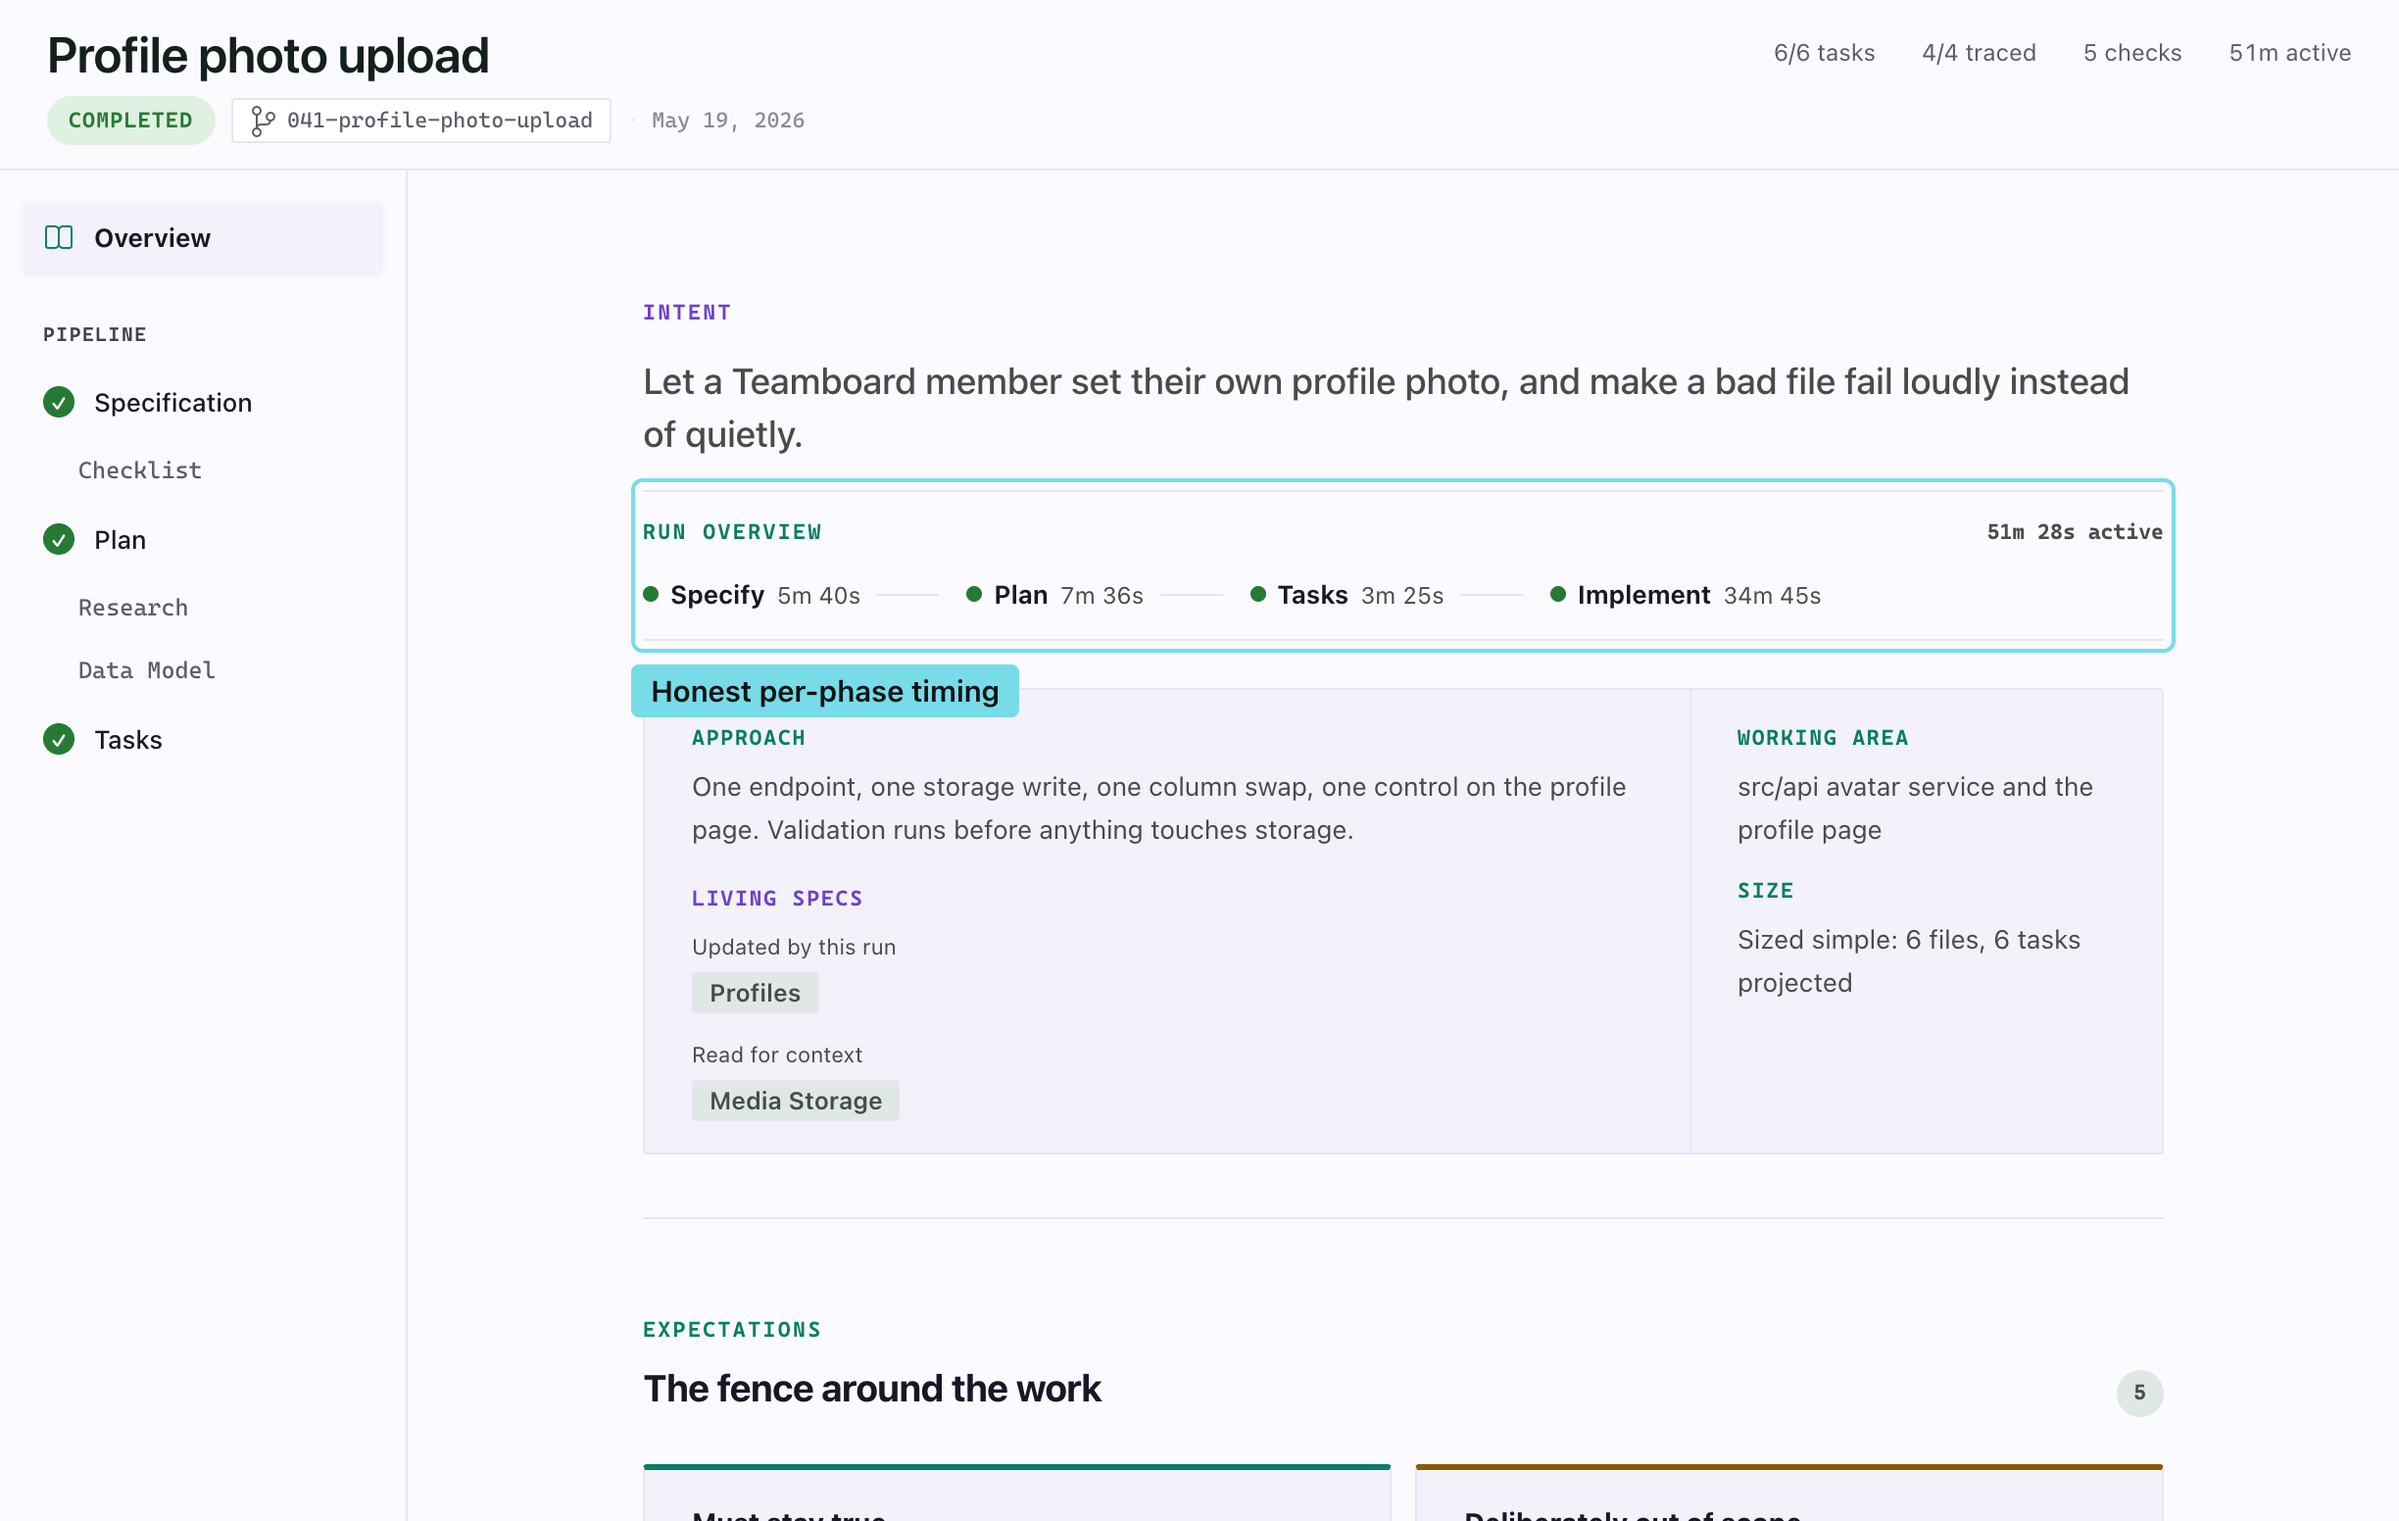
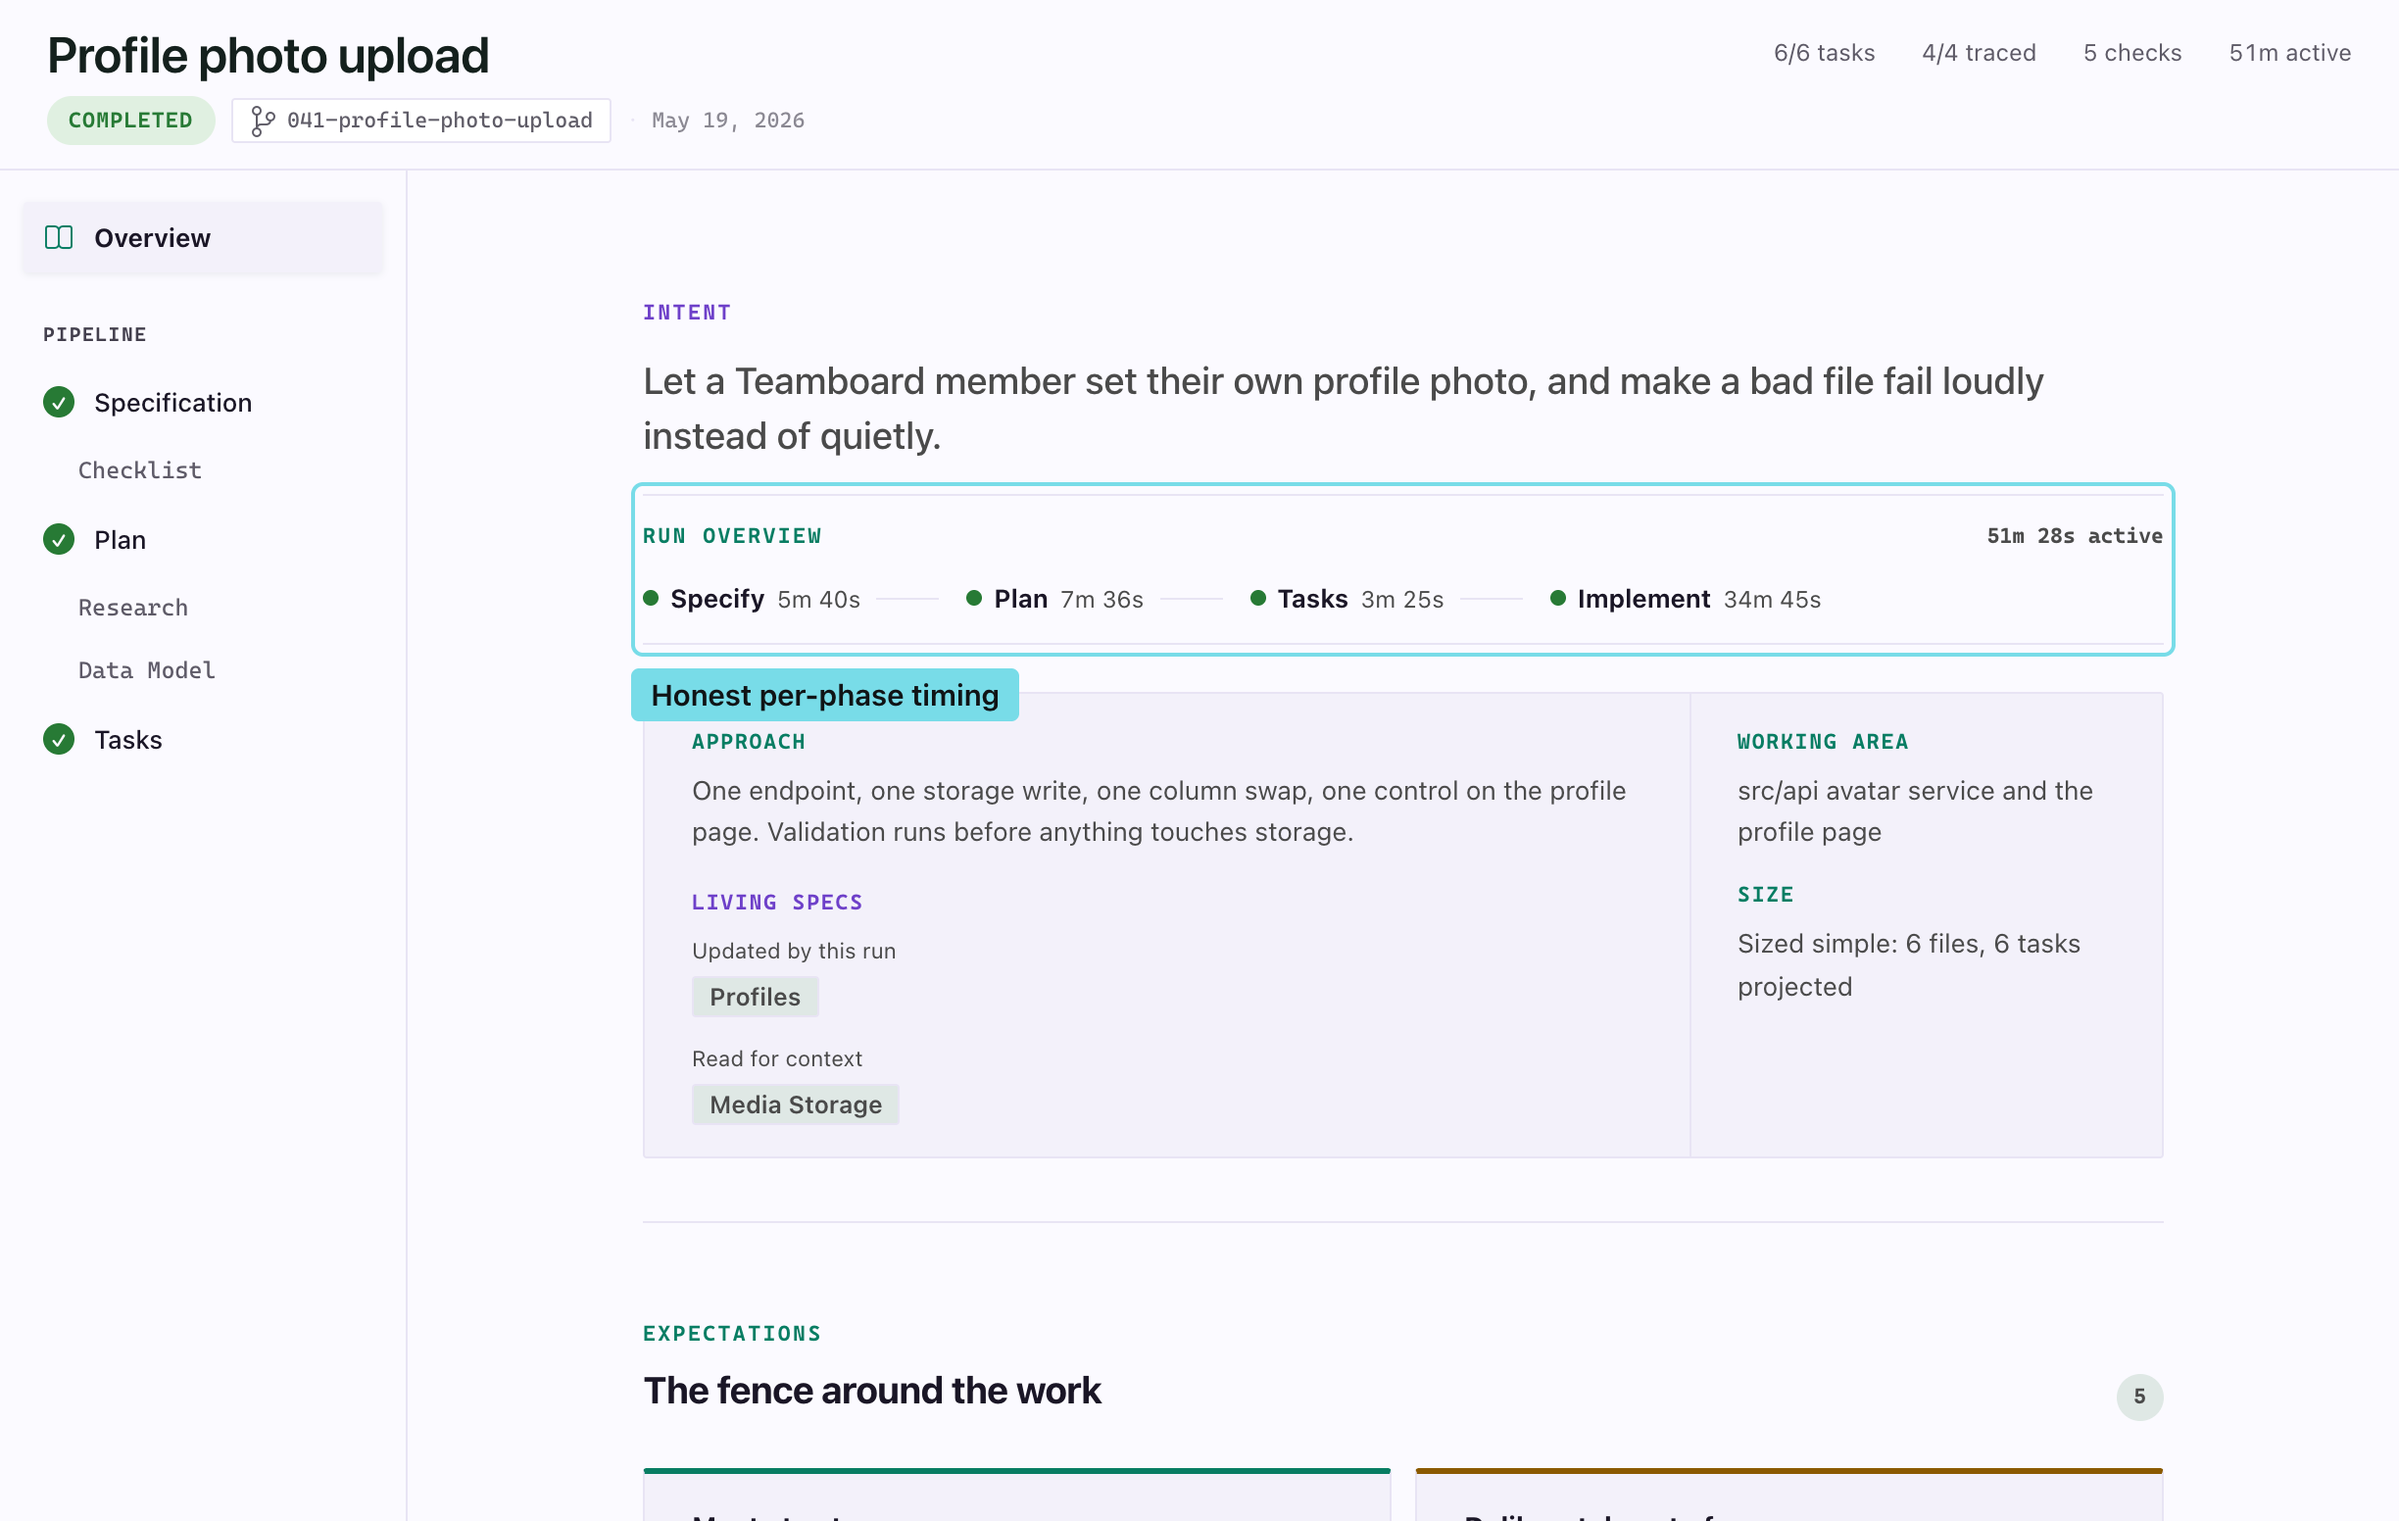
fix(spec-viewer): the Overview stacks by its own width, in any pane

diff --git a/apps/vscode/webview/styles/spec-viewer/_overview-dossier.css b/apps/vscode/webview/styles/spec-viewer/_overview-dossier.css
@@ -257,7 +257,7 @@
 .dossier-intent__statement {
     max-width: 72ch;
     margin: var(--space-3) 0 var(--space-4);
-    font-size: clamp(16px, 1.5cqi, 19px);
+    font-size: clamp(16px, 1.5vw, 19px);
     font-weight: 500;
     line-height: 1.45;
     color: var(--text-body);
@@ -763,7 +763,12 @@
 
 /* ── Narrow panes: single-column fences, stacked ledger/coverage rows ── */
 
-@container viewer (max-width: 900px) {
+/* The Overview sizes off its own width, so a split pane, Storybook and the canvas collapse it alike. */
+.dossier {
+    container: dossier / inline-size;
+}
+
+@container dossier (max-width: 560px) {
     .dossier-intent__meta {
         grid-template-columns: 1fr;
     }
@@ -797,9 +802,18 @@
     .dossier-coverage__req {
         grid-column: 1 / -1;
     }
+
+    .dossier-decision__head {
+        flex-direction: column;
+        align-items: flex-start;
+    }
+
+    .dossier-decision__meta {
+        margin-left: 0;
+    }
 }
 
-@container viewer (max-width: 560px) {
+@container dossier (max-width: 440px) {
     .dossier-timing__head {
         align-items: flex-start;
         flex-direction: column;
@@ -812,7 +826,9 @@
     }
 
     .dossier-section__head {
+        flex-direction: column;
         align-items: flex-start;
+        gap: var(--space-2);
     }
 
     .dossier-coverage__row {
